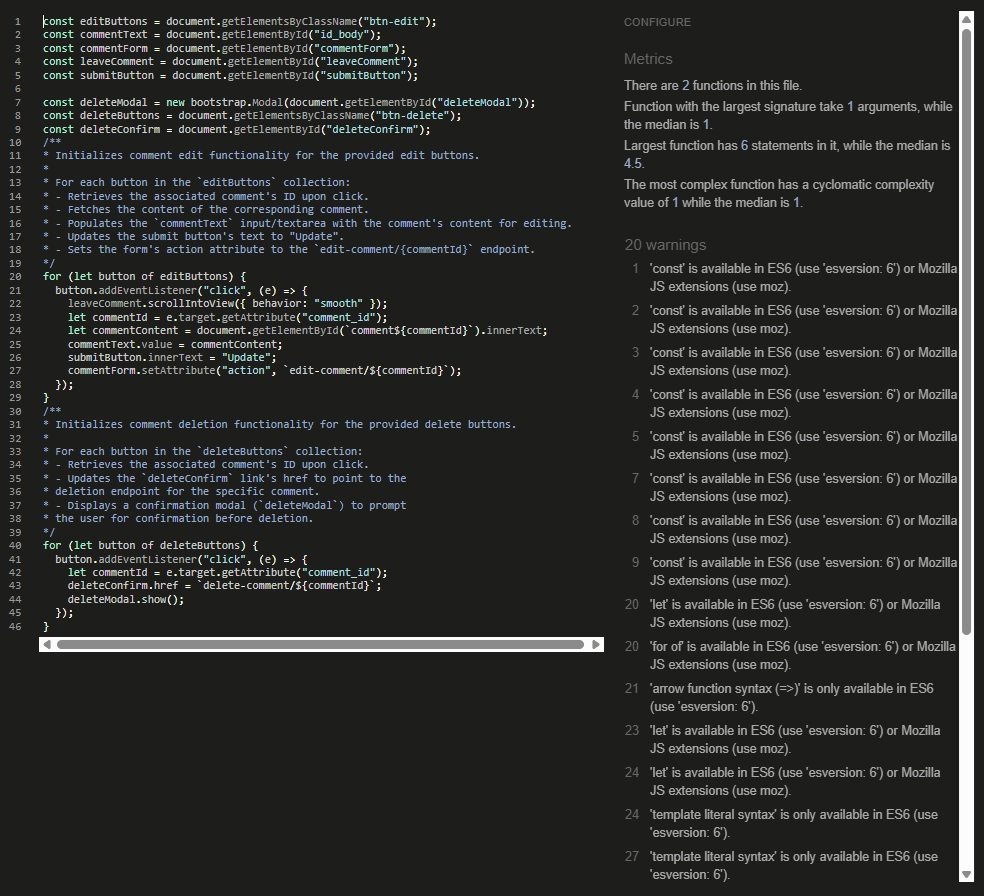
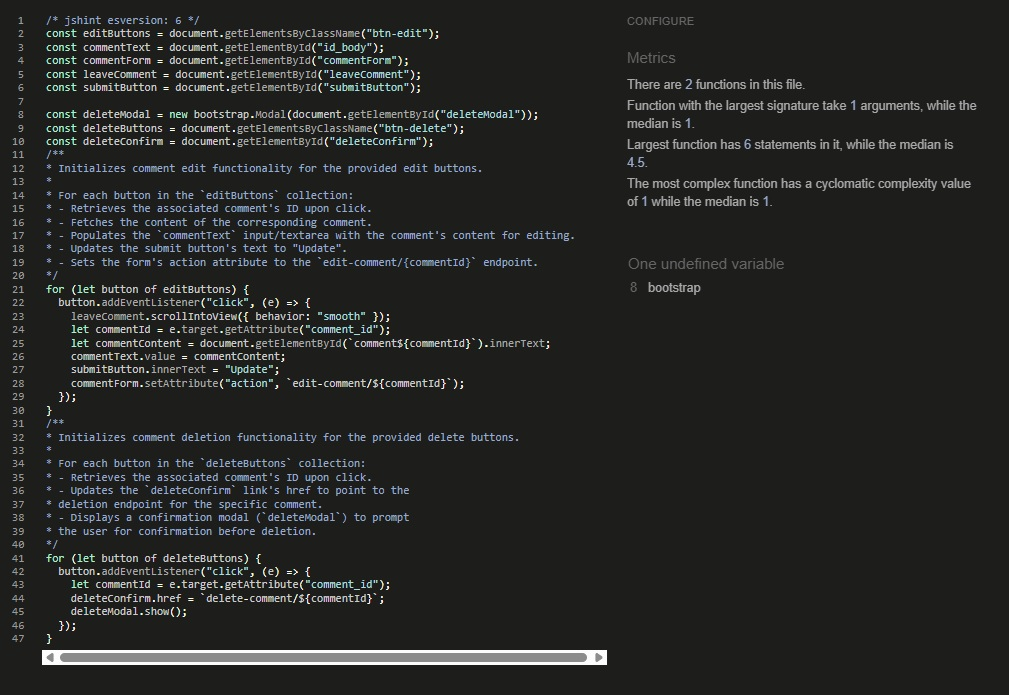
add more to validation section on readme

diff --git a/static/js/comments.js b/static/js/comments.js
@@ -1,3 +1,4 @@
+/* jshint esversion: 6 */
 const editButtons = document.getElementsByClassName("btn-edit");
 const commentText = document.getElementById("id_body");
 const commentForm = document.getElementById("commentForm");

diff --git a/static/js/posts.js b/static/js/posts.js
@@ -1,3 +1,4 @@
+/* jshint esversion: 6 */
 const editPostButton = document.getElementById("postEdit");
 
 const deletePostButton = document.getElementById("postDelete");

diff --git a/pettit/settings.py b/pettit/settings.py
@@ -97,16 +97,6 @@ TEMPLATES = [
 
 WSGI_APPLICATION = 'pettit.wsgi.application'
 
-
-# Database
-# https://docs.djangoproject.com/en/4.2/ref/settings/#databases
-
-# DATABASES = {
-#    'default': {
-#        'ENGINE': 'django.db.backends.sqlite3',
-#        'NAME': BASE_DIR / 'db.sqlite3',
-#    }
-# }
 DATABASES = {
     'default': dj_database_url.parse(os.environ.get("DATABASE_URL"))
 }
@@ -114,23 +104,32 @@ DATABASES = {
 if 'test' in sys.argv:
     DATABASES['default']['ENGINE'] = 'django.db.backends.sqlite3'
 
-CSRF_TRUSTED_ORIGINS = ["https://*.codeinstitute-ide.net/", "https://*.herokuapp.com"]
+CSRF_TRUSTED_ORIGINS = [
+    "https://*.codeinstitute-ide.net/", "https://*.herokuapp.com"]
 
 # Password validation
 # https://docs.djangoproject.com/en/4.2/ref/settings/#auth-password-validators
 
 AUTH_PASSWORD_VALIDATORS = [
     {
-        'NAME': 'django.contrib.auth.password_validation.UserAttributeSimilarityValidator',
+        'NAME':
+            'django.contrib.auth.password_validation.'
+            'UserAttributeSimilarityValidator',
     },
     {
-        'NAME': 'django.contrib.auth.password_validation.MinimumLengthValidator',
+        'NAME':
+            'django.contrib.auth.password_validation.'
+            'MinimumLengthValidator',
     },
     {
-        'NAME': 'django.contrib.auth.password_validation.CommonPasswordValidator',
+        'NAME':
+            'django.contrib.auth.password_validation.'
+            'CommonPasswordValidator',
     },
     {
-        'NAME': 'django.contrib.auth.password_validation.NumericPasswordValidator',
+        'NAME':
+            'django.contrib.auth.password_validation.'
+            'NumericPasswordValidator',
     },
 ]
 

diff --git a/post/test_views.py b/post/test_views.py
@@ -12,11 +12,16 @@ class TestPostViews(TestCase):
             password="myPassword",
             email="test@test.com"
         )
-        self.post = UserPost(title="Post title", author=self.user, content="Post content", approved=True)
+        self.post = UserPost(
+            title="Post title",
+            author=self.user,
+            content="Post content",
+            approved=True)
         self.post.save()
 
     def test_render_post_detail_page_with_comment_form(self):
-        response = self.client.get(reverse('post_detail', args=[self.post.id]))
+        response = self.client.get(
+            reverse('post_detail', args=[self.post.id]))
         self.assertEqual(response.status_code, 200)
         self.assertIn(b"Post title", response.content)
         self.assertIn(b"Post content", response.content)
@@ -30,7 +35,8 @@ class TestPostViews(TestCase):
         post_data = {
             'body': 'This is a test comment.'
         }
-        response = self.client.post(reverse('post_detail', args=[self.post.id]), post_data)
+        response = self.client.post(
+            reverse('post_detail', args=[self.post.id]), post_data)
         self.assertEqual(response.status_code, 200)
         self.assertIn(
             b'Comment submitted and awaiting approval',

diff --git a/about/test_views.py b/about/test_views.py
@@ -30,4 +30,5 @@ class TestAboutView(TestCase):
         response = self.client.post(reverse('about'), post_data)
         self.assertEqual(response.status_code, 200)
         self.assertIn(
-            b'Feedback request received! I endeavour to respond within 2 working days.', response.content)
+            b'Feedback request received! I endeavour to respond within 2 working days.',
+            response.content)

diff --git a/README.md b/README.md
@@ -185,9 +185,11 @@ CSS validation was checked using [W3C CSS Validation Service.](https://jigsaw.w3
 
 ### Python
 
+Python validation was checked using [Heroku's python linter](https://pep8ci.herokuapp.com/) to ensure the code adheres to PEP8 standards. There are no screenshots included, as there are too many Python files for this README, but every Python file did pass the test.
+
 ### JavaScript
 
-JavaScript validation was checked using [JSHint](https://jshint.com/)
+JavaScript validation was checked using [JSHint.](https://jshint.com/) The only warnings recieved were
 
 <details><summary>comments.js</summary>
 
